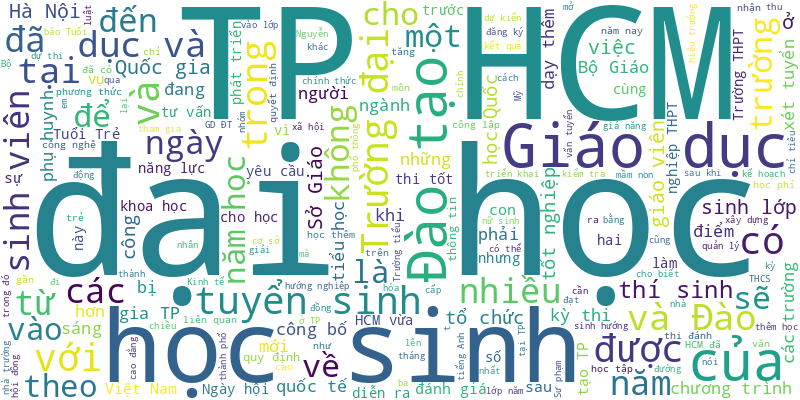
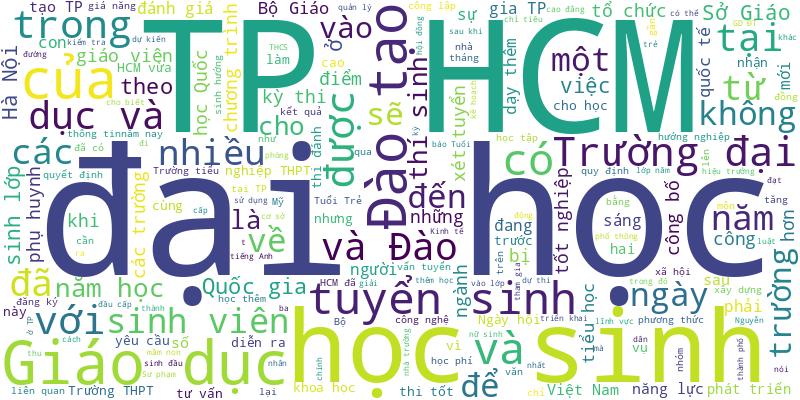
🍀 = 80%

diff --git a/README.md b/README.md
@@ -1,6 +1,19 @@
 # Tuoi Tre RSS 
 
 ## Giáo dục 
+- Nhạc sĩ Nguyễn Văn Chung chia sẻ rằng anh bất ngờ và hạnh phúc khi Viết tiếp câu chuyện hòa bình tiếp tục được lan tỏa qua đề thi văn dành cho học sinh THPT.
+- Tỉnh Khánh Hòa hợp tác với Trường đại học Bách khoa TP.HCM, mở ra cơ hội đào tạo, phát triển nguồn nhân lực chất lượng cao trong các lĩnh vực khoa học, kỹ thuật ở địa phương.
+- Năm 2025, Học viện Công nghệ bưu chính viễn thông lần đầu sử dụng kết quả bài thi đánh giá năng lực do Trường đại học Sư phạm Hà Nội tổ chức; thí sinh đoạt giải học sinh giỏi cấp tỉnh, quốc gia được cộng điểm thưởng từ 1 - 3 điểm.
+- Một trường tiểu học ở Kiên Giang đang kêu cứu khẩn cấp trước bản án của tòa án buộc phải nhận lại  bảo vệ cũ, đồng thời bồi thường một khoản tiền lớn. Thậm chí cơ quan thi hành án cho biết sẽ cưỡng chế nếu không thực hiện.
+- Khái niệm 'đại học' và 'trường đại học' tiếp tục được nhiều lãnh đạo trường đại học đưa ra bàn luận tại hội thảo lấy ý kiến chính sách xây dựng Luật Giáo dục đại học (sửa đổi), diễn ra tại TP.HCM.
+- Trẻ em và học sinh chưa có căn cước công dân, VNeID thì sử dụng thẻ bảo hiểm y tế thế nào?
+- Theo chuẩn đầu vào ngành vi mạch bán dẫn trình độ đại học, thí sinh xét điểm thi tốt nghiệp THPT phải có môn toán đạt ít nhất 8 điểm, tổng điểm 3 môn xét tuyển tối thiểu từ 24 điểm.
+- Công an tỉnh Đắk Lắk cảnh báo các chiêu trò lừa nâng điểm, bán 'phao thi VIP' tràn lan trước kỳ thi tốt nghiệp THPT 2025 để thí sinh, người nhà nhận diện, phòng tránh rủi ro.
+- Liên quan vụ các cô giáo đánh nhiều trẻ em ở Trường mầm non Dương Đông (TP Phú Quốc, Kiên Giang), UBND TP Phú Quốc vừa có quyết định kỷ luật khiển trách hiệu trưởng trường.
+- Thống kê cho thấy gần 50% trường THPT tại TP.HCM có số lượng nguyện vọng 1 lớp 10 thấp hơn chỉ tiêu, trong đó có cả trường tốp đầu.
+- Nếu không vô được trang tuyển sinh đầu cấp: tuyensinhdaucap.hcm.edu.vn; phụ huynh có thể sử dụng trang dự phòng: tuyensinhdaucap2025.hcm.edu.vn.
+- Đại học Bách khoa Hà Nội sẽ mở cổng đăng ký xét tuyển tài năng và xác thực quy đổi chứng chỉ ngoại ngữ từ nay đến hết ngày 5-6.
+- Trường THCS Mạc Đĩnh Chi, quận Tân Bình, TP.HCM vừa công bố phương thức tuyển sinh lớp 6 năm học 2025-2026.
 - Ngày 14-5, Sở GD-ĐT TP.HCM đã công bố số thí sinh đăng ký dự thi tuyển sinh lớp 10 công lập năm học 2025-2026.
 - Chưa kết thúc năm học 2024-2025 nhưng theo ghi nhận của phóng viên Tuổi Trẻ, nhiều phụ huynh và nhà trường đã rục rịch tìm, đặt mua sách giáo khoa cho năm học mới.
 - Tin tức đáng chú ý: Giảm 20% biên chế các ngành nghề sau sắp xếp, tinh gọn nhưng giữ nguyên giáo dục và y tế; Hôm nay, Quốc hội thảo luận tổ về cơ chế chính sách phát triển kinh tế tư nhân; Bắt đầu Tháng hành động vì an toàn thực phẩm...
@@ -991,22 +1004,68 @@ Trường đại học Văn Lang được QS xếp hạng top 51-100 thế giớ
 - Ngày 14-2, Đại học Quốc gia TP.HCM đã ký quyết định ban hành Chương trình giáo sư thỉnh giảng tại Đại học Quốc gia TP.HCM, trong đó sẽ ưu tiên 12 lĩnh vực.
 - Một phụ huynh có con học lớp 7 ở Hội An lên mạng 'tố' bị thầy giáo thể dục phạt nặng tay, vì học sinh mang trang phục không phù hợp. Phòng Giáo dục và Đào tạo TP Hội An vào cuộc.
 - Nhà nước đã quyết định chi cho khoa học công nghệ 5% GDP, khoảng hơn 20 tỉ USD/năm, với nhiều chính sách đặc biệt để đột phá phát triển khoa học.
-- Xuất phát từ việc đi bộ đến trường mỗi ngày, hai học sinh lớp 9 ở Ninh Thuận đã chế tạo ra thiết bị tạo dòng điện từ những bước chân.
-- Hơn 300 sinh viên khối ngành truyền thông đa phương tiện và quan hệ công chúng Trường đại học Nguyễn Tất Thành bắt đầu học thực hành tại báo Tuổi Trẻ.
-- Liên quan vụ hiệu trưởng dùng con dấu vay nợ hơn 5 tỉ đồng rồi âm thầm bán trường, cơ quan chức năng vừa đề nghị điều tra hành vi tham ô tài sản đối với lãnh đạo Trường trung cấp Bình Minh.
-- Bộ Quốc phòng vừa ban hành quyết định về việc giao nhiệm vụ đào tạo hệ dân sự cho một số cơ sở giáo dục trong quân đội.
-- Hôm nay (14-2), thông tư 29 của Bộ GD-ĐT quy định về dạy thêm, học thêm chính thức có hiệu lực. Cũng từ hôm nay, những giáo viên trường công lập dạy thêm tại nhà không có giấy phép kinh doanh được xem là trái quy định.
-- Nhằm tăng hứng thú cho tiết học và để học sinh dễ nhớ bài, cô giáo trẻ ở TP.HCM đã dạy các em học bảng cửu chương bằng rap.
-- Việc bình thường hóa các lỗi sai chính tả, sai ngữ pháp, viết tắt… thông qua các trào lưu xu hướng thịnh hành khiến tiếng Việt bị 'biến dạng' ngày càng nhiều.
-- Ông Hồ Tấn Minh - chánh văn phòng Sở Giáo dục và Đào tạo TP.HCM - đã lý giải một số vướng mắc của giáo viên, phụ huynh và học sinh về thông tư 29 quy định dạy thêm, học thêm có hiệu lực từ 14-2.
-- Cả năm qua, giáo viên Lâm Đồng dù ở địa bàn đặc biệt khó khăn nhưng không được nhận trợ cấp theo nghị định 76, vì thuộc xã nông thôn mới.
-- So với năm ngoái, năm nay Học viện Báo chí và Tuyên truyền dự kiến giảm 20% chỉ tiêu xét tuyển với phương thức xét điểm thi tốt nghiệp THPT, dành đến 50% chỉ tiêu cho xét học bạ, xét học bạ kết hợp chứng chỉ quốc tế.
-- Đây là chia sẻ của ông Trần Thế Cương, giám đốc Sở Giáo dục và Đào tạo Hà Nội, tại lễ công bố quyết định tổ chức lại Trường THPT Chu Văn An thành Trường THPT chuyên Chu Văn An sáng 13-2.
-- Những thay đổi về dạy thêm có hiệu lực từ 14-2 sẽ chỉ điều chỉnh với giáo viên hay với cả giáo viên nghỉ hưu, sinh viên dạy kèm?
-- Dù các quy định mới về xe đưa đón học sinh đã có hiệu lực từ ngày 1-1-2025, nhưng đến nay nhiều đơn vị vẫn còn gặp rắc rối khi cố gắng đáp ứng các tiêu chuẩn.
 ![Edu](Edu.png)
 ## Thời Sự 
-- Rạng sáng 15-5, trên địa bàn thị xã Sa Pa xảy ra vụ sạt lở đất làm sập một nhà dân khiến một người bị mắc kẹt. Sau hơn 3 giờ tìm kiếm, lực lượng chức năng đã tìm thấy và đưa nạn nhân đi cấp cứu.
+- Lãnh đạo Sở Xây dựng cho biết TP.HCM sẽ tập trung chuẩn bị nhân lực, cơ sở hạ tầng để đáp ứng việc kiểm định xe máy trong thời gian tới.
+- Đại biểu Quốc hội sẽ lựa chọn 2 trong 3 nhóm vấn đề thuộc trách nhiệm của các bộ trưởng, trưởng ngành dự kiến chất vấn tại kỳ họp thứ 9.
+- Một số tin tức đáng chú ý: Đề xuất tăng nặng xử phạt vi phạm về chứng khoán; Hãng sữa Kun chi hàng trăm tỉ thâu tóm gần 35% cổ phần một công ty khác; Công bố thông tin sai lệch, Tập đoàn Đua Fat bị phạt nặng...
+- TP.HCM còn tồn đọng gần 120.000 hồ sơ đăng ký sát hạch lái xe. Sắp tới, việc tổ chức sát hạch như thế nào để vừa giải quyết hồ sơ cũ, vừa phục vụ người dân đăng ký sát hạch mới một cách nhanh chóng, thuận tiện nhất?
+- Hôm nay 16-5, thời tiết các tỉnh Bắc Bộ mưa rào đến mưa to. Nam Bộ nắng, chiều tối mưa rào kèm dông sét nguy hiểm.
+- Chiều 15-5, các tỉnh Bình Thuận, Lâm Đồng, Đắk Nông tổ chức họp trực tuyến trao đổi về định hướng phát triển kinh tế - xã hội của các địa phương.
+- Trước việc Trung Quốc đơn phương thông báo lệnh cấm đánh bắt cá trên Biển Đông, từ 12h ngày 1-5 đến 12h ngày 16-8 ở vùng biển từ vĩ tuyến 12° Bắc đến vĩ tuyến 26°30' Bắc, ngư dân Phú Yên vẫn vững tâm ra khơi bám biển.
+- Đó là thông tin từ Trung tâm Quản lý giao thông công cộng TP.HCM về xử lý, khắc phục tình trạng bảng thông tin ở hàng trăm nhà chờ xe buýt trên địa bàn bị hư hỏng, không hiển thị thông tin.
+- Lễ hội Làng Sen là hoạt động chính trị, văn hóa có ý nghĩa quan trọng, thể hiện lòng biết ơn, thành kính của nhân dân đối với Chủ tịch Hồ Chí Minh.
+- Công an tỉnh Kiên Giang tổ chức lễ nghỉ công tác, hưởng chế độ hưu trí cho 73 lãnh đạo, chỉ huy.
+- Suối Bà Lúa - con suối chạy qua một số khu công nghiệp ở thành phố Biên Hòa rồi đổ ra sông Đồng Nai - sủi bọt trắng xóa bất thường khiến người dân không khỏi lo lắng.
+- TP.HCM đang lên kế hoạch xây dựng cầu Vàm Thuật (nối quận Bình Thạnh và quận 12) thay thế cầu sắt An Phú Đông xuống cấp, giúp người dân an tâm đi lại.
+- Cơn mưa chiều 15-5 khiến đường Bà Triệu, trước Bệnh viện Đa khoa khu vực Hóc Môn (huyện Hóc Môn, TP.HCM) ngập sâu, người bệnh và thân nhân phải bì bõm về nhà.
+- Cục Thuế thông báo tạm dừng một số ứng dụng thuế điện tử từ 23-5 đến 15-6, để chuyển đổi trung tâm dữ liệu.
+- Phó chủ tịch UBND TP.HCM đánh giá cao Bệnh viện Ung bướu TP.HCM đã tiên phong thực hiện chiến lược liên kết vùng, hỗ trợ chuyên môn cho các bệnh viện vệ tinh chặn ung thư.
+- Sáng 15-5, Chủ tịch UBND TP.HCM Nguyễn Văn Được tiếp Tổng lãnh sự Trung Quốc Ngụy Hoa Tường đến chào từ biệt, nhân dịp ông sắp hết nhiệm kỳ và về nước.
+- HĐND huyện U Minh, tỉnh Cà Mau vừa tổ chức 2 đoàn đi học tập kinh nghiệm ở Côn Đảo dù đã có chủ trương sắp xếp bỏ cấp huyện. Ban Tổ chức Tỉnh ủy Quảng Trị cũng vừa thu hồi kế hoạch tổ chức đoàn cán bộ lãnh đạo sắp nghỉ hưu đi học tập kinh nghiệm...
+- Bộ Chính trị yêu cầu cần nghiên cứu ban hành cơ chế, chính sách khuyến khích các cặp vợ chồng và cá nhân sinh đủ hai con.
+- Sở Nội vụ TP.HCM vừa đề xuất 273 trạm y tế hiện nay sẽ sắp xếp còn 102 trạm, ước tính mỗi trạm y tế có tối thiểu 4 bác sĩ.
+- Nam thanh niên tại Quảng Bình bị thanh gỗ lớn đâm xuyên thấu vùng ngực trái sâu 20cm. May mắn thanh niên này đã được cứu kịp thời.
+- Công an TP.HCM đã xây dựng video hướng dẫn người dân tham gia góp ý dự thảo sửa đổi Hiến pháp qua ứng dụng VNeID.
+- Lo lắng dự án vành đai 3 TP.HCM bị chậm do thiếu cát, Chủ tịch UBND TP.HCM Nguyễn Văn Được yêu cầu chủ đầu tư báo cáo thẳng, kỹ, không lòng vòng.
+- Theo Đại tướng Nguyễn Tân Cương, Việt Nam thực hiện chính sách quốc phòng "4 không", vì vậy không đưa lực lượng gìn giữ hòa bình tham gia các khu vực tham chiến.
+- Dù thực hiện nhiều giải pháp nhưng khu vực chợ Thủ Đức vẫn ngập nặng mỗi khi mưa. TP Thủ Đức kiến nghị TP.HCM chấp thuận xây dựng hai dự án giảm ngập cho chợ Thủ Đức với hơn 5.000 tỉ đồng.
+- Chiều 15-5, trong chương trình thăm và làm việc tại Nghệ An, Tổng Bí thư Tô Lâm đã trao tặng tác phẩm điêu khắc ánh sáng 'Việt Nam - những trang sử vàng' cho Khu di tích quốc gia đặc biệt Kim Liên.
+- Để chủ động phòng chống dịch bệnh COVID-19 xâm nhập qua biên giới, lãnh đạo Trung tâm Kiểm soát bệnh tật Hà Tĩnh đã kiểm tra, giám sát, chỉ đạo công tác phòng chống dịch tại cửa khẩu quốc tế Cầu Treo.
+- Công ty VinSpeed có trách nhiệm tham gia vào việc đầu tư các dự án đường sắt do Tập đoàn Vingroup đề xuất, trong đó có dự án đường sắt đi Cần Giờ.
+- Đến nay, Công an TP.HCM đã khởi tố tổng cộng 53 bị can, trong đó 6 cán bộ hải quan thuộc Cục Hải quan tỉnh Bà Rịa - Vũng Tàu liên quan đường dây buôn lậu hàng triệu lít dầu DO, FO của Công ty Saigon Transco.
+- Mặc dù dự án thành phần cao tốc Bắc - Nam qua Hà Tĩnh đã thông xe, song nhiều hộ dân bị nứt nhà cửa, công trình do quá trình thi công dự án vẫn chưa nhận được tiền bồi thường, hỗ trợ.
+- TP Huế đã khai trương điểm giải quyết thủ tục hành chính không phụ thuộc vào địa giới hành chính đầu tiên trên cả nước.
+- Chánh Văn phòng UBND thành phố Cần Thơ Nguyễn Văn Vinh bị kỷ luật cảnh cáo, còn phó chánh Văn phòng Thành ủy Cần Thơ không bị kỷ luật nhưng phải kiểm điểm.
+- Sở Nội vụ TP.HCM vừa có tờ trình gửi UBND TP.HCM về đề án tổng thể sắp xếp, tổ chức lại đơn vị sự nghiệp công lập thuộc UBND quận huyện và TP Thủ Đức, trong đó có các trường mầm non, tiểu học, trung học cơ sở.
+- Ngày 15-5, Văn phòng Chính phủ vừa có thông báo kết luận của Phó thủ tướng Trần Hồng Hà về dự án đầu tư xây dựng đường vành đai 4 TP.HCM.
+- Chiều 15-5, mây dông phát triển mạnh, mưa trút xuống các huyện phía Bắc TP.HCM và đang kéo về trung tâm, dự báo mưa khá lớn.
+- Để tránh lãng phí, tỉnh Sóc Trăng cho tạm dừng triển khai 6 dự án với kinh phí gần 75 tỉ đồng do ảnh hưởng trong quá trình sắp xếp.
+- Cựu thủ trưởng, phó thủ trưởng, điều tra viên Cơ quan cảnh sát điều tra Công an huyện Tân Biên (tỉnh Tây Ninh) cùng cựu viện trưởng viện kiểm sát cùng cấp lãnh án tù vì không truy cứu trách nhiệm hình sự đối với nhóm buôn lậu xe Lexus.
+- Liên quan đến vết sụt lún trên mặt đường nút giao Ngọc Hội (TP Nha Trang, Khánh Hòa), các đơn vị liên quan đã đến kiểm tra để tìm nguyên nhân gây ra tình trạng trên.
+- Sáng 15-5, trong chương trình thăm và làm việc tại Nghệ An, Tổng Bí thư Tô Lâm đã đến thăm, tặng quà Mẹ Việt Nam Anh hùng Lê Thị Sáu, 102 tuổi, ở thành phố Vinh.
+- Đó là nhấn mạnh của Tổng Bí thư Tô Lâm với Ban Thường vụ Tỉnh ủy Nghệ An trong chuyến thăm và làm việc tại Nghệ An sáng 15-5.
+- UBND TP.HCM vừa ban hành quy định về giá với việc thu gom, vận chuyển, xử lý rác sinh hoạt (tiền rác), áp dụng từ ngày 1-6.
+- Một vụ tai nạn giao thông đặc biệt nghiêm trọng xảy ra khi xe kéo container tông liên hoàn trên quốc lộ 28 khiến 2 người chết tại chỗ, 5 người khác bị thương.
+- Số ca mắc COVID-19 tại TP.HCM tăng nhẹ trong 4 tuần qua, không ghi nhận ca bệnh nặng từ đầu năm đến nay.
+- Công ty Vinspeed chịu trách nhiệm chủ trì, phối hợp với Bộ Xây dựng, Bộ Tài chính hoàn thiện hồ sơ phương án đầu tư, lập bản so sánh giữa 2 phương án đầu tư giữa Nhà nước và tư nhân.
+- Nhà nước mở rộng để doanh nghiệp tư nhân tham gia làm các dự án trọng điểm, quan trọng quốc gia, đường sắt tốc độ cao, đường sắt đô thị, công nghiệp nền tảng, công nghiệp mũi nhọn...
+- Dự thảo quy định người trực tiếp, thường xuyên làm xây dựng pháp luật tại một số cơ quan, đơn vị được hưởng hỗ trợ 100% mức lương hệ số lương hiện hưởng hằng tháng (không gồm phụ cấp).
+- Lần đầu tiên tổ chức kỳ thi sát hạch cấp bằng lái xe, Phòng cảnh sát giao thông Công an tỉnh Quảng Bình đã đo nồng độ cồn 295 học viên trước khi thi.
+- Đường Nguyễn Văn Khối (quận Gò Vấp, TP.HCM), vừa khởi công sáng 14-5, được ví là 'con sông' giữa phố vì trước kia hay ngập.
+- Bốn lao động người Việt chết trong vụ ngạt khí CO tại Đài Loan đã được an táng tại quê nhà.
+- Trong số các biển số xe máy được người trúng đấu giá nộp đủ tiền, biển số 50AA-888.88 của TP.HCM giữ mức giá cao nhất khi đạt 1,455 tỉ đồng.
+- Trụ sở HĐND TP Cần Thơ đảm bảo chỗ làm việc cho cán bộ, công chức và tổ chức hội họp, đồng thời tạo điểm nhấn kiến trúc cho thành phố.
+- Theo Sở Nội vụ tỉnh Đồng Tháp, số công chức, viên chức cấp tỉnh tiếp tục công tác sau khi sáp nhập tỉnh là 2.748 người.
+- Dự án cao tốc Quy Nhơn - Pleiku được Chính phủ trình Quốc hội quyết định chủ trương đầu tư với chiều dài 125km, 4 làn xe hoàn chỉnh với tổng mức đầu tư  43.734 tỉ đồng.
+- Công ty sản xuất mút xốp rộng 5.000m² trong Khu công nghiệp Sóng Thần 3 (tỉnh Bình Dương) bốc cháy dữ dội. Theo ghi nhận, một phần nhà xưởng rộng hàng trăm m² đã bị đổ sập.
+- Ủy viên Ban Thường vụ Thành ủy Cần Thơ có thể được xem xét, bố trí làm bí thư đảng ủy xã, phường có quy mô kinh tế, hạ tầng giao thông đô thị phát triển…
+- Nhiều trụ điện dọc tỉnh lộ 661 tại huyện Chư Păh (tỉnh Gia Lai) bị gió lốc quật ngã đổ, gây mất điện cho hàng trăm hộ dân, ngành điện đang chạy đua khắc phục.
+- Ủy ban Kiểm tra Tỉnh ủy Lâm Đồng đã thi hành kỷ luật 3 cán bộ thuộc Sở Xây dựng Lâm Đồng vì liên quan đến sai phạm tại dự án sân golf Đồi Cù.
+- Dự thảo đề xuất bổ sung một số lĩnh vực được áp dụng mức xử phạt vi phạm bằng tiền tăng gấp 2 lần ở khu vực nội thành của 6 thành phố: Hà Nội, Hải Phòng, Huế, Đà Nẵng, TP.HCM, Cần Thơ.
+- Chủ tịch UBND TP.HCM Nguyễn Văn Được đến dự họp mặt kỷ niệm 135 năm Ngày sinh Chủ tịch Hồ Chí Minh và trao Huy hiệu Đảng đợt ngày 19-5-2025 tại Đảng bộ quận 1.
+- Do chi phí bồi thường, tái định cư và chi phí xây dựng tăng nên Chính phủ trình Quốc hội điều chỉnh chủ trương đầu tư dự án đường cao tốc Biên Hòa - Vũng Tàu tăng từ 17.837 tỉ đồng lên 21.551 tỉ đồng.
+- Rạng sáng 15-5, trên địa bàn thị xã Sa Pa xảy ra vụ sạt lở đất làm sập nhà dân khiến một người bị mắc kẹt. Sau hơn 3 giờ tìm kiếm, lực lượng chức năng đã tìm thấy và đưa nạn nhân đi cấp cứu nhưng nạn nhân không qua khỏi.
 - Gần đây có thông tin cho rằng người dân cần phải làm sổ đỏ trong năm 2025, nếu không sẽ phải nộp thêm nhiều tiền.
 - Công an Đà Nẵng đồng loạt tuần tra kiểm soát, chốt chặn, phòng, chống tội phạm đường phố vào khung giờ từ 22h - 4h sáng hôm sau trên nhiều tuyến đường.
 - Dự án chăn nuôi bò nghìn tỉ ở Hà Tĩnh tại xã Cẩm Quan (huyện Cẩm Xuyên) hiện không nuôi con bò nào, nhiều vùng đất của dự án đang được phủ xanh bởi cây dứa.
@@ -1947,67 +2006,9 @@ Trường đại học Văn Lang được QS xếp hạng top 51-100 thế giớ
 - Vào lúc 20h30 đến 20h45 tối nay (28-4), TP.HCM sẽ tổng duyệt trình diễn 10.500 drone và trình diễn chính thức vào 20h30 đến 20h45 ngày 1-5.
 - Vòi rồng lớn, có sức tàn phá mạnh vừa quét qua địa bàn huyện An Minh (Kiên Giang) đã làm cho nhiều cây xanh đổ ngã và 24 căn nhà của người dân bị sập và tốc mái.
 - Căn nhà bốc cháy có 3 tầng và 1 tum, nằm sâu trong ngõ, cách mặt đường giao thông khoảng 30m. Cảnh sát cho biết đã phát hiện 3 nạn nhân tử vong.
-- Sau khi lắng nghe ý kiến đóng góp, nguyện vọng của người dân, thực hiện chỉ đạo của Ban thường vụ Tỉnh ủy Thanh Hóa, nhiều huyện đã chuyển đặt tên xã mới theo số thứ tự sang địa danh dễ nhớ, gắn với truyền thống văn hóa, lịch sử.
-- Tuấn đã tạo lập một “hệ sinh thái” gồm nhiều trang, hội nhóm kín như "Lan Quế Phường" với trên 14.600 thành viên để môi giới mại dâm và điều hành 300 gái bán dâm. Quá trình hoạt động, Tuấn đã dùng nhiều thủ đoạn tinh vi.
-- Một số tin tức đáng chú ý: REE bị phạt vì nhiều giao dịch chưa được thông qua; Nhiều doanh nghiệp 'chốt' cổ tức trước nghỉ lễ; Doanh nghiệp giảm mua lại trái phiếu trước hạn...
-- Hôm nay 28-4, thời tiết Bắc Bộ có mưa do ảnh hưởng không khí lạnh. Nam Bộ sau nhiều ngày mưa nay đã nắng nóng trở lại.
-- Thủ tướng Nhật Bản Ishiba Shigeru khẳng định như vậy trong cuộc gặp Tổng Bí thư Tô Lâm tối 27-4 tại trụ sở Trung ương Đảng ở Hà Nội.
-- Một công ty ở TP Nha Trang trình báo cơ quan điều tra, Viện KSND tỉnh Khánh Hòa và phải khóa tài khoản vì bỗng dưng bị nhận hơn 20,11 tỉ đồng bất thường. Một người dân cũng bị buộc nhận hơn 7,73 tỉ đồng.
-- Phu nhân Thủ tướng Nhật Bản Ishiba Shigeru, bà Ishiba Yoshiko, đi từ ngạc nhiên đến thích thú khi cùng làm bánh cốm với Phu nhân Tổng Bí thư Tô Lâm, bà Ngô Phương Ly.
-- Thường trực Ban Bí thư Trần Cẩm Tú căn dặn còn vài ngày đến lễ diễu binh kỷ niệm 50 năm Ngày thống nhất đất nước, thời gian gấp rút, nhiệm vụ nặng nề, mỗi cán bộ, chiến sĩ cần tập trung cao độ, đoàn kết, đồng lòng, nghìn người như một.
-- Các đại biểu được mời tham dự lễ kỷ niệm cần mang theo thư mời, thẻ đeo, căn cước công dân, không mang túi xách, chai nước, dù che đến khu vực tổ chức lễ kỷ niệm, không đi xe cá nhân vào khu vực giới hạn.
-- Đến thăm công trường sân bay Quảng Trị, Phó thủ tướng Trần Hồng Hà khích lệ công nhân vì góp tay xây dựng nên công trình mang ý nghĩa lịch sử trong không khí đại lễ 30-4.
-- Trải qua 50 năm hòa bình - thống nhất, tôi đã nối được rất nhiều mối thâm tình giữa "người bên này" với "người bên kia" và thật tự hào vì mình cũng được là một thành tố trong hòa hợp hòa giải dân tộc.
-- Dự Luật Tổ chức chính quyền địa phương sửa đổi đề xuất chủ tịch xã được bổ nhiệm, cách chức lãnh đạo cơ quan chuyên môn.
-- Ngày 27-4, Ban Quản lý dự án Mỹ Thuận (Bộ Xây dựng) đã có thông tin về tình hình thực hiện và công tác tổ chức thi công dự án cầu Nhơn Trạch trong dịp lễ 30-4 và 1-5.
-- Hàng trăm tấn bột ngọt, hạt nêm giả bị tạm giữ; Sáp nhập tỉnh thành có phải đổi biển số xe?… là các vấn đề thu hút nhiều bạn đọc phản hồi tuần qua.
-- Vừa qua, lượng hành khách chọn tuyến metro số 1 (Bến Thành - Suối Tiên) vào khu trung tâm TP.HCM xem chương trình lễ 30-4 rất đông đúc.
-- Xe chở rác đang chạy bị sạt bánh bên lề phải, tài xế đánh lái sang làn bên trái gây tai nạn với 2 xe máy chạy chiều ngược lại. Tài xế đã bị tạm giữ.
-- Lực lượng chức năng đã tìm được hai anh em ruột 12 tuổi và 11 tuổi ở Đồng Nai mất liên lạc với gia đình khi đạp xe lên TP.HCM xem diễu binh, diễu hành.
-- Mạng lưới đường trục chính tốc độ nhanh, ít giao cắt sẽ rút ngắn thời gian đi lại từ trung tâm TP.HCM ra tuyến cao tốc, vành đai để kết nối với các tỉnh thành.
-- Cựu lãnh đạo Sở Nông nghiệp và Phát triển nông thôn, Sở Xây dựng, Sở Thông tin và Truyền thông chưa được bố trí công việc sau khi hợp nhất.
-- Sáng nay 27-4, tổng duyệt diễu binh, diễu hành kỷ niệm 50 năm Giải phóng miền Nam, thống nhất đất nước được tổ chức trang trọng tại đường Lê Duẩn, TP.HCM, với sự tham gia của quân đội Trung Quốc, Lào, Campuchia.
-- Bộ Nội vụ đề xuất hỗ trợ 5,5 triệu đồng/tháng với người chuyên trách an toàn thông tin mạng, an ninh mạng; 3,5 triệu đồng/tháng với người chuyên trách quản lý công nghệ thông tin, giao dịch điện tử.
-- Trong vòng 5 ngày (từ ngày 23 đến 27-4) lực lượng Bộ Tư lệnh Vùng Cảnh sát biển 4 đã liên tiếp bắt 3 tàu cá có hành vi vi phạm tháo và giấu thiết bị giám sát hành trình trên vùng biển Tây Nam.
-- Dự án cải tạo, xây dựng hạ tầng rạch Văn Thánh có mục tiêu chỉnh trang đô thị, chống ngập, cải thiện môi trường để nâng cao chất lượng đời sống người dân.
-- Chiều 27-4, chuyên cơ đưa Thủ tướng Nhật Bản Ishiba Shigeru và Phu nhân hạ cánh xuống sân bay Nội Bài, đánh dấu chuyến thăm đầu tiên của ông đến Việt Nam trên cương vị Thủ tướng bắt đầu.
-- Kế hoạch ban đầu, vào 28-4, Vietnam Airlines sẽ chuyển đổi toàn bộ các chuyến bay nội địa sang nhà ga T3 Tân Sơn Nhất. Tuy nhiên hãng vừa thông báo phương án này đã có sự thay đổi về thời gian chuyển đổi.
-- Ngày 27-4, Liên đoàn Lao động TP Đà Nẵng trao tặng 34 mái ấm cho công nhân có hoàn cảnh khó khăn với tổng trị giá hơn 1,22 tỉ đồng trong dịp Tháng công nhân năm 2025.
-- 65 mẹ liệt sĩ, thân nhân liệt sĩ còn thiếu thông tin, chưa trở về được với gia đình trên địa bàn Long An đã được thu nhận mẫu ADN để tiếp tục tìm kiếm.
-- Bộ Tài chính đánh giá số lượng nhà đất công dôi dư sau khi sáp nhập, tinh gọn bộ máy rất lớn. Nên việc bố trí sắp xếp, xử lý và sử dụng trụ sở phải đảm bảo hiệu quả, tránh xuống cấp, thất thoát.
-- Trong trận đánh ở chân cầu Câu Nhi 53 năm trước, 93 chiến sĩ Sư đoàn 308 cùng hy sinh. Sau nửa thế kỷ, các liệt sĩ này có một "mái nhà chung", thân nhân có một nơi để thăm viếng.
-- Tính đến nay, tôi đã có gần 20 năm làm "dân ngụ cư" khu vực Nhà Bè, Bình Chánh, đi về trên đại lộ Nguyễn Văn Linh, Nguyễn Hữu Thọ.
-- Để được chứng kiến những khoảnh khắc đẹp nhất của hòa bình, nhiều người đã không quản đường xa đến TP.HCM dự lễ kỷ niệm 50 năm thống nhất đất nước.
-- Do ảnh hưởng của không khí lạnh kết hợp với rãnh thấp nên từ chiều tối nay đến ngày mai (28-4), ở Bắc Bộ có mưa, mưa vừa, mưa to, nguy cơ xảy ra dông, lốc, sét và mưa đá.
-- Trưa 27-4, tại Hội Nhà báo TP.HCM, Ban Chỉ đạo Trung ương kỷ niệm các ngày lễ lớn và sự kiện lịch sử quan trọng của đất nước giai đoạn 2023-2025 đã khai trương Trung tâm Báo chí lễ kỷ niệm 50 năm Ngày Giải phóng miền Nam, thống nhất đất nước.
-- Sáng 27-4, gần 600 người cùng chung tay nhặt rác và tham gia các hoạt động thiết thực trong ngày hội môi trường biển tại Đà Nẵng 2025 tại khu vực biển Nguyễn Tất Thành.
-- Kiên Giang xây dựng và định vị thương hiệu du lịch tỉnh gắn liền hình ảnh chủ đạo, độc đáo, mang đậm bản sắc văn hóa, con người địa phương đến với du khách và đặc biệt khách quốc tế.
-- Người cựu chiến binh Nghệ An chạy xe máy vượt hành trình hơn 1.300km vào TP.HCM xem lễ diễu binh, diễu hành nhận được nhiều giúp đỡ, đón tiếp của người dân.
-- Quảng Ngãi tính điều động gần 40 giám đốc, phó giám đốc sở và tương đương về xã công tác. Đồng thời, Ban Thường vụ Tỉnh ủy Quảng Ngãi có văn bản gửi Ban Thường vụ Tỉnh ủy Kon Tum để nghiên cứu thực hiện.
-- Một đường dây cá độ bóng đá có quy mô giao dịch trên 100 tỉ đồng vừa bị cảnh sát hình sự Đà Nẵng triệt phá.
-- Thời khắc lá cờ giải phóng tung bay trên nóc dinh Độc Lập trưa 30-4-1975 đã đi vào lịch sử dân tộc như một sự kiện trọng đại - ngày miền Nam hoàn toàn giải phóng, đất nước thống nhất, non sông thu về một mối.
-- Tuần này Bắc Bộ có mưa do ảnh hưởng không khí lạnh, Nam Bộ nắng nóng, Trung Bộ ngày nắng.
-- Tuyến đường gom vào cầu Rạch Miễu 2, phía tỉnh Bến Tre có tổng chiều dài hơn 18km, vốn đầu tư hơn 1.158 tỉ đồng đã hoàn thành và thông xe.
-- Đoàn kiều bào từ 24 quốc gia và vùng lãnh thổ đã thực hiện hải trình đến Trường Sa và nhà giàn DK 1, mang theo tình cảm của người Việt Nam trên toàn thế giới đến với cán bộ, chiến sĩ và nhân dân.
-- Khi sáp nhập tỉnh thành, sổ đỏ có bị thu hồi? Trường hợp nào sẽ bị thu hồi sổ đỏ theo Luật Đất đai 2024?
-- HĐND tỉnh Bà Rịa - Vũng Tàu quyết nghị thành lập 29 xã, phường và 1 đặc khu khi sắp xếp, tổ chức lại xã, phường. Đồng thời tán thành chủ trương sáp nhập tỉnh này với tỉnh Bình Dương và TP.HCM để thành một TP trực thuộc trung ương.
-- Hưởng ứng không khí đại lễ 30-4, nhiều người xúng xính sắm áo thun, phụ kiện mang biểu tượng đất nước trên các sàn thương mại điện tử để "đi đu concert quốc gia".
-- Thông báo mới nhất từ Phòng cảnh sát giao thông Công an TP.HCM (PC08) về điều chỉnh, phân luồng giao thông phục vụ đại lễ 30-4.
-- Trả lời ý kiến nhân dân về việc vì sao không tổ chức thành phố Hội An như hiện nay thành một phường, ông Lê Văn Dũng - chủ tịch UBND tỉnh Quảng Nam - cho rằng nếu thành lập phường, xã mà quy mô quá lớn thì khó gần dân, sát dân.
-- Sau khi sáp nhập 3 tỉnh Bến Tre, Trà Vinh và Vĩnh Long thành một tỉnh mới, ngoài cây cầu Cổ Chiên hiện hữu, trong tương lai sẽ có thêm cầu Cổ Chiên 2 và cầu Đình Khao. Vị trí của những cây cầu này nằm ở đâu?
-- Ông Hoàng Khánh Duy - phó trưởng Ban quản lý Khu kinh tế cửa khẩu Đồng Đăng - Lạng Sơn (tỉnh Lạng Sơn) - cho biết tình hình xuất nhập khẩu hàng hóa ở các cửa khẩu tại tỉnh Lạng Sơn vẫn hoạt động bình thường.
-- Dưới dây là những thông tin về thời gian, khu vực cấm xe, kinh nghiệm đi xem tổng duyệt an toàn, những điểm lý tưởng xem các hoạt động chính của đại lễ...
-- Theo thống kê của UBND xã Phong Vân (huyện Ba Vì, Hà Nội), có 47 hộ dân ở bãi sông Hồng bị nứt, đoạn đê kè bị ảnh hưởng vẫn chưa được gia cố lại dù đã một năm trôi qua.
-- Sau khi hoàn thành phần diễu binh ngang qua lễ đài, các khối quân đội, công an tỏa ra 4 hướng về điểm tập kết, đi giữa tiếng hò reo động viên của đông đảo người dân.
-- Dự kiến, sau khi hợp nhất tỉnh Lào Cai và tỉnh Yên Bái, các cơ quan, đơn vị thuộc tỉnh Lào Cai mới sẽ bố trí hai nơi làm việc ở Yên Bái (trụ sở chính) và Lào Cai.
-- 8h08, máy bay tới TP.HCM, người dân hò reo phấn khích. Nắng lên không làm người dân khó chịu mà ai cũng hào hứng, tự hào chen lẫn xúc động.
-- Tin tức đáng chú ý: Sáp nhập Gia Lai và Bình Định, tỉnh mới có 135 đơn vị hành chính; "Chuyến tàu đại đoàn kết" - hải trình đưa 60 kiều bào thăm Trường Sa và Nhà giàn DK1; Cảnh báo có thuốc giả mua bán trên mạng...
-- Tại bến Bạch Đằng nơi bố trí trận địa pháo lễ và có tầm nhìn tốt để thấy máy bay trực thăng, tiêm kích, người dân cũng tập trung từ rất sớm. Tại đây hầu như không còn vị trí trống từ 6h sáng.
-- Hôm nay 27-4, mưa sẽ giảm ở Nam Bộ, thời tiết nắng nóng quay trở lại và chiếm ưu thế.
-- Hệ thống đèn hiệu đường băng sân bay Long Thành vừa hoàn thành, vận hành thử nghiệm thành công sẵn sàng phục vụ công tác bay hiệu chuẩn.
-- Phát biểu nhân kỷ niệm 50 năm thống nhất đất nước, Chủ tịch Quốc hội Trần Thanh Mẫn lưu ý Cần Thơ cần đảm bảo sự đoàn kết, đồng thời "mới mẻ trong cách nghĩ - sáng tạo trong cách làm - hiệu quả trong triển khai thực hiện".
 ![New](News.png)
 ## Nhịp sống số 
+- Tập đoàn Điện lực Việt Nam khẳng định trang fanpage có tên "Kênh việc làm EVN" với 6.000 lượt tài khoản theo dõi là giả mạo và sử dụng trái phép thương hiệu EVN.
 - Sau hơn 1 tháng ra mắt, cổng thông tin điện tử nq57.mst.gov.vn đã tiếp nhận 426 hồ sơ sản phẩm, giải pháp, trong đó 71 sản phẩm, giải pháp hữu ích đã được công bố.
 - Bí thư tỉnh Cao Bằng Quản Minh Cường đã dẫn chứng nội dung này để nói về tình trạng lộ lọt, lợi dụng dữ liệu cá nhân đang là vấn đề rất bức xúc, nóng hổi.
 - Vượt qua nhiều thử thách, FPT x Flash sẽ có mặt tại vòng chung kết tổng giải đấu Liên Quân Mobile chuyên nghiệp cấp cao nhất tại Việt Nam.
@@ -3006,5 +3007,4 @@ Trường đại học Văn Lang được QS xếp hạng top 51-100 thế giớ
 - TTO - Chiếc toilet điện từ dành riêng cho mèo giá 225 USD này có khả năng phân tích mẫu phân và nước tiểu và “báo cáo” tình trạng sức khỏe của con vật tới chủ qua smartphone.
 - TTO - Apple đã âm thầm thay đổi các quy định chính sách liên quan tới việc bán hoặc chia sẻ dữ liệu người dùng với các nhà phát triển trong App Store từ tuần trước, song không công bố.
 - TTO - Nền tảng và mô hình mới về điều vận xe trực tuyến EMDDI - một sản phẩm khoa học công nghệ của nhóm các nhà khoa học ĐH Quốc gia Hà Nội vừa được chính thức giới thiệu tại Hà Nội chiều ngày 12-6.
-- TVC thương hiệu thường nói về mơ ước có tính biểu tượng mà thương hiệu đó muốn đạt được trong tương lai. Nhưng với Mytel – mạng di động quốc tế thứ 10 của Viettel, thì đó đã là một phần của hiện thực.
 ![life](Life.png)
